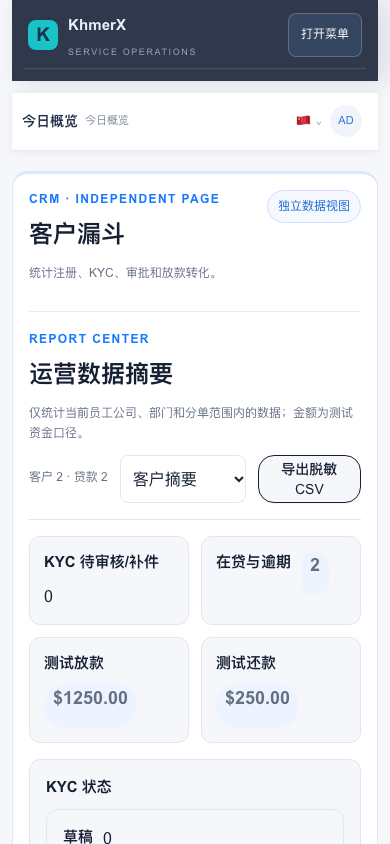
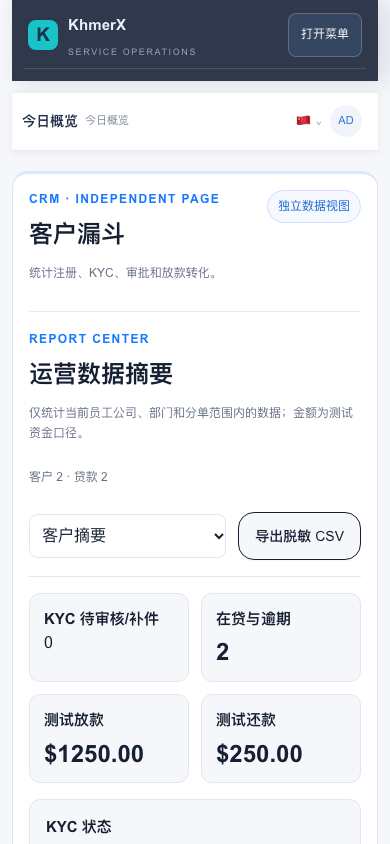
fix: normalize report KPI values on mobile

diff --git a/app/globals.css b/app/globals.css
@@ -241,9 +241,11 @@ fieldset.language-config{margin:16px 0;padding:14px 16px;border:1px solid var(--
 .auth-locale{position:static;z-index:120;display:flex;flex-wrap:nowrap;gap:4px;max-width:calc(100vw - 24px);margin-left:auto;flex-shrink:0}.auth-locale button{min-height:44px;border:1px solid #d8e3f3;border-radius:999px;background:#fff;color:#31517e;padding:6px 8px;font-size:12px;white-space:nowrap;cursor:pointer;box-shadow:0 4px 12px rgba(38,70,115,.08)}.auth-locale button:hover{border-color:#8eb5ec;color:#075bd5}.auth-locale button[aria-pressed=true]{border-color:var(--color-brand-primary);background:#edf3ff;color:var(--color-brand-primary);font-weight:700}
 /* Operator Grid: one scan-friendly row structure shared by customer, loan, bill, and report lists. */
 .operator-grid{display:grid;gap:12px;margin:16px 0}.operator-row{display:grid;grid-template-columns:minmax(0,1fr) auto;gap:12px 18px;align-items:start;padding:16px;border:1px solid var(--border);border-radius:12px;background:var(--card);min-width:0}.operator-row-main{min-width:0}.operator-row-heading{display:flex;align-items:center;gap:10px;min-width:0}.operator-row-heading h3{margin:0;min-width:0;color:var(--foreground);font-size:15px;overflow-wrap:anywhere}.operator-row-secondary,.operator-row-meta{margin:6px 0 0;color:var(--muted-foreground);font-size:12px;overflow-wrap:anywhere}.operator-row-meta{display:flex;flex-wrap:wrap;gap:8px 14px}.operator-row-status{display:inline-flex;align-items:center;min-height:28px;padding:0 9px;border-radius:999px;background:#edf3ff;color:var(--color-brand-primary);font-size:12px;font-weight:650;white-space:nowrap}.operator-row-actions{display:flex;align-items:center;justify-content:flex-end;gap:8px;min-width:0}.operator-row-extra{grid-column:1/-1;border-top:1px solid var(--border);padding-top:12px;min-width:0}.customer-list-row{padding:0;text-decoration:none}.customer-list-row .operator-row{width:100%;border:0;border-radius:0;background:transparent;text-align:left}.customer-list-row .operator-row-meta{justify-content:flex-end;color:var(--muted-foreground);font-weight:650}.customer-list-row:hover .operator-row,.customer-list-row.selected .operator-row{background:transparent}.report-kpis>.operator-row{padding:14px;border:1px solid var(--border);border-radius:11px;background:var(--background)}.report-kpis>.operator-row .operator-row-status{font-size:18px}.report-status-row{border:0;border-bottom:1px solid var(--border);border-radius:0;padding:9px 0;background:transparent}.report-status-row:last-child{border-bottom:0}.report-status-row .operator-row-meta{font-size:11px}.loan-workflow-row .operator-row-actions{max-width:100%}.loan-workflow-row .operator-row-actions .button-row{justify-content:flex-end;flex-wrap:wrap}
-@media(max-width:620px){.operator-row{grid-template-columns:minmax(0,1fr);gap:10px;padding:14px}.operator-row-actions{justify-content:stretch;flex-direction:column;align-items:stretch}.operator-row-actions>*{width:100%;min-height:44px}.operator-row-actions .button-row{display:flex;flex-direction:column;align-items:stretch;gap:8px}.operator-row-actions .button-row>*{width:100%;min-height:44px}.operator-row-heading{align-items:flex-start;flex-wrap:wrap}.operator-row-status{min-height:44px}.customer-list-row .operator-row{padding:14px}.report-kpis{gap:10px}.report-kpis>.operator-row{min-height:88px}.operator-grid{gap:10px}.operator-row-extra{width:100%;overflow-wrap:anywhere}}
+.report-kpis>.operator-row .operator-row-status-plain{display:block;min-height:0;padding:0;background:transparent;color:var(--foreground);font-size:24px;font-weight:700;line-height:1.2}
+.report-kpis>.operator-row .operator-row-heading{display:block}.report-kpis>.operator-row .operator-row-status-plain{margin-top:8px}
+@media(max-width:620px){.operator-row{grid-template-columns:minmax(0,1fr);gap:10px;padding:14px}.operator-row-actions{justify-content:stretch;flex-direction:column;align-items:stretch}.operator-row-actions>*{width:100%;min-height:44px}.operator-row-actions .button-row{display:flex;flex-direction:column;align-items:stretch;gap:8px}.operator-row-actions .button-row>*{width:100%;min-height:44px}.operator-row-heading{align-items:flex-start;flex-wrap:wrap}.operator-row-status{min-height:44px}.report-kpis>.operator-row .operator-row-status-plain{min-height:0}.customer-list-row .operator-row{padding:14px}.report-kpis{gap:10px}.report-kpis>.operator-row{min-height:88px}.operator-grid{gap:10px}.operator-row-extra{width:100%;overflow-wrap:anywhere}}
 .report-center{padding:24px}.report-center-head{padding-bottom:16px;border-bottom:1px solid var(--border);margin-bottom:24px}.report-kpis{gap:16px;margin:24px 0}.report-grid{gap:24px}.report-grid article{padding:16px}.report-center .empty,.report-center .error{margin:24px 0;padding:16px;border:1px solid var(--border);border-radius:12px;background:var(--background)}.report-center .error{color:var(--color-brand-primary)}
-@media(max-width:760px){.report-center{padding:16px}.report-center-head{padding-bottom:16px;margin-bottom:16px}.report-kpis{gap:12px;margin:16px 0}.report-grid{gap:16px}}
+@media(max-width:760px){.report-center{padding:16px}.report-center-head{padding-bottom:16px;margin-bottom:16px}.report-center-head .button-row{display:grid;grid-template-columns:minmax(0,1fr) auto;align-items:center}.report-center-head .button-row>span{grid-column:1/-1}.report-center-head .button-row>button{white-space:nowrap;min-width:max-content}.report-kpis{gap:12px;margin:16px 0}.report-grid{gap:16px}}
 body:has(.mini-app) .auth-locale{display:none}
 
 /* KYC queue: compact CRM cards keep identity, routing and actions easy to scan. */

diff --git a/components/report-center.tsx b/components/report-center.tsx
@@ -18,7 +18,7 @@ export function ReportCenter({customers,loans,entries,notifications,pageOnly=fal
   const statusRows=(labels:Record<string,string>,counts:Record<string,number>)=>Object.entries(labels).map(([key,label])=><OperatorRow key={key} className="report-status-row" title={label} status={counts[key]||0} meta={key}/>);
   return <section className="report-center panel" aria-label="数据报表">
     <div className="report-center-head"><div><p className="eyebrow">REPORT CENTER</p><h2>{pageOnly?'本页 · 运营数据摘要':'运营数据摘要'}</h2><p className="fine">仅统计当前员工公司、部门和分单范围内的数据；金额为测试资金口径。</p></div><div className="button-row"><span className="fine">客户 {customerTotal??customers.length} · 贷款 {loanTotal??loans.length}</span><select aria-label="导出报表类型" value={reportType} onChange={e=>setReportType(e.target.value)}><option value="customer_summary">客户摘要</option><option value="kyc_funnel">KYC/审批</option><option value="loan_cashflow">放款/还款</option><option value="collections">逾期催收</option></select><Button variant="outline" disabled={exporting} onClick={()=>void exportReport()}>{exporting?'生成中…':'导出脱敏 CSV'}</Button></div></div>
-    <div className="report-kpis"><OperatorRow title="KYC 待审核/补件" status={(kyc.submitted||0)+(kyc.needs_info||0)}/><OperatorRow title="在贷与逾期" status={(loan.active||0)+(loan.overdue||0)}/><OperatorRow title="测试放款" status={`$${funded.toFixed(2)}`}/><OperatorRow title="测试还款" status={`$${repaid.toFixed(2)}`}/></div>
+    <div className="report-kpis"><OperatorRow title="KYC 待审核/补件" status={(kyc.submitted||0)+(kyc.needs_info||0)} plainStatus/><OperatorRow title="在贷与逾期" status={(loan.active||0)+(loan.overdue||0)} plainStatus/><OperatorRow title="测试放款" status={`$${funded.toFixed(2)}`} plainStatus/><OperatorRow title="测试还款" status={`$${repaid.toFixed(2)}`} plainStatus/></div>
     <div className="report-grid"><article><h3>KYC 状态</h3>{statusRows(kycLabels,kyc)}</article><article><h3>贷款状态</h3>{statusRows(loanLabels,loan)}</article><article><h3>通知发送</h3><OperatorRow title="成功发送" status={delivered}/><OperatorRow title="失败/死信" status={failed} className={failed?'report-alert':''}/><OperatorRow title="总记录" status={notifications.length}/></article></div>
     {exportNotice&&<p className={exportNotice.startsWith('已')?'success':'error'} role="status">{exportNotice}</p>}<p className="fine report-note">导出仅包含当前员工可见范围，并对客户标识做脱敏；每次导出都会写入审计记录。</p>
   </section>;

diff --git a/components/operator-row.tsx b/components/operator-row.tsx
@@ -6,16 +6,17 @@ type OperatorRowProps={
   title:ReactNode;
   secondary?:ReactNode;
   status?:ReactNode;
+  plainStatus?:boolean;
   meta?:ReactNode;
   actions?:ReactNode;
   children?:ReactNode;
   className?:string;
 };
 
-export function OperatorRow({title,secondary,status,meta,actions,children,className=''}:OperatorRowProps){
+export function OperatorRow({title,secondary,status,plainStatus=false,meta,actions,children,className=''}:OperatorRowProps){
   return <article className={`operator-row ${className}`.trim()}>
     <div className="operator-row-main">
-      <div className="operator-row-heading"><h3>{title}</h3>{status&&<span className="operator-row-status">{status}</span>}</div>
+      <div className="operator-row-heading"><h3>{title}</h3>{status&&<span className={plainStatus?'operator-row-status operator-row-status-plain':'operator-row-status'}>{status}</span>}</div>
       {secondary&&<p className="operator-row-secondary">{secondary}</p>}
       {meta&&<div className="operator-row-meta">{meta}</div>}
     </div>

diff --git a/docs/review/ui-fix-3-customer-loan-reports-20261102.md b/docs/review/ui-fix-3-customer-loan-reports-20261102.md
@@ -2,7 +2,7 @@
 
 Date: 2026-11-02 (Asia/Phnom Penh)
 
-Before captures use merged `origin/main` at `1d3a282` (after PR #162); after captures use `feat/ui/fix-3-customer-loan-reports` at `55a8d39`. Playwright used synthetic local identity headers and route-mocked `/api/team` and `/api/state` responses; no production or remote service was contacted. All captures are 390×844 first-screen screenshots with `fullPage: false`, the CRM menu collapsed (`打开菜单` visible), and `scrollY: 0` after the first matching row was brought into view.
+Before captures use merged `origin/main` at `1d3a282` (after PR #162); after captures use `feat/ui/fix-3-customer-loan-reports` at the final screenshot-fix commit. Playwright used synthetic local identity headers and route-mocked `/api/team` and `/api/state` responses; no production or remote service was contacted. All captures are first-screen screenshots with `fullPage: false`; the 390px capture keeps the CRM menu collapsed (`打开菜单` visible) and `scrollY: 0` after the first matching row was brought into view.
 
 ## Capture matrix
 
@@ -10,11 +10,12 @@ Before captures use merged `origin/main` at `1d3a282` (after PR #162); after cap
 |---|---:|---|---|---|
[6 lines of base64/hex data omitted]
 
 ## Mobile verification
 
 - Customer list: both before and after show two visible `OperatorRow` customer rows (`CUS-0001`, `CUS-0002`), the first row is visible without horizontal overflow, and the menu remains collapsed. The after capture reflects the merged #162 mobile sidebar behavior.
 - Report center: all four KPI `OperatorRow` cards are visible before and after, with the collapsed menu and no horizontal overflow.
+- KPI values now render as uniform large, left-aligned numbers beneath each title without the status-pill background; the export control stays on one line at 390px.
 - The rendered customer-list and report-center rows do not receive `actions` props in this PR, so no vertical action-button stack is present in these two screenshots. This is recorded as a verification gap rather than inferred from CSS; the requested action-button evidence cannot be claimed by these captures.
